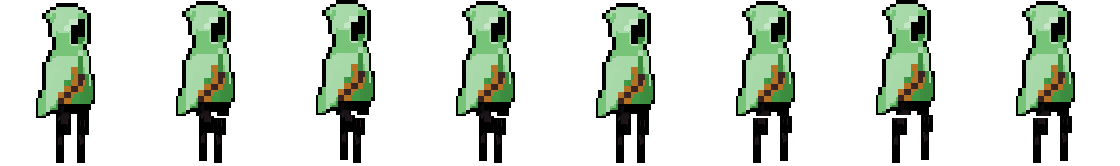
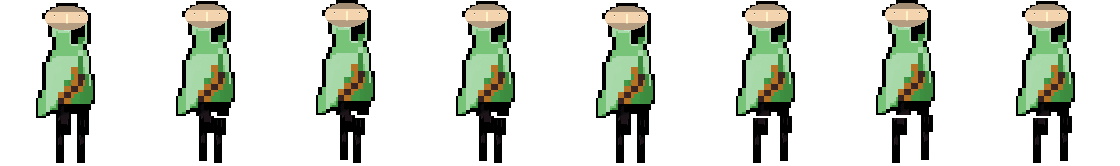
CAS-199: fix headless hero — add a face mask under the cowl (interim, warm build)
The canonical hooded hero read as a HEADLESS cowl: the hood part is a crown
over an empty black face-cavity, inherited by all 5 classes via runtime tinting.
Add a value-normalised `face` part mask (pale skin + glowing eyes), composited
on top of the hood with a FIXED skin tone (class-independent → same person,
different role); lift the cowl interior to a coloured dark shadow so it reads as
depth not a hole. Wired into BOTH the runtime bake (render/customize.js) and the
static class-select strips (tools/cas167-build-classes.mjs); helmet keeps its
visor. Verified in-game (class-select + in-world, all 5 classes, 0 errors) via
tools/cas199-verify.mjs. Idle/walk animation preserved; class aura FX shipped in
render.js (CAS-204 commit). Interim fix for the live warm build — the permanent
on-style fix is the FOUNTAINS/PixelLab character rollout.

diff --git a/render/customize.js b/render/customize.js
@@ -31,8 +31,9 @@ const CELL_W = 140, CELL_H = 166, ANCHOR_X = 65, FOOT = 163, FIGURE_H = 160;
 const FIG_W = 58, FIG_H = 158;                 // native part-mask figure dims
 const IDLE_FC = 6, WALK_FC = 8;
 const MID = 165;                               // tint mid-reference (value-normalised masks)
+const SKIN = [226, 196, 162];                  // CAS-199 fixed face tone (class-independent → "same person, different role")
 const PART_DIR = "./assets/erw/hero/parts/";
-const PART_NAMES = ["hood", "cloak", "sash", "legs", "helmet", "nocape", "longcape"];
+const PART_NAMES = ["hood", "cloak", "sash", "legs", "helmet", "nocape", "longcape", "face"];
 
 const _doc = (typeof document !== "undefined") ? document : null;
 const _masks = {};            // name -> HTMLImageElement
@@ -120,6 +121,9 @@ export function bakeHero(cls, palette, variation){
   bx.drawImage(toCell(tint(_masks[m.torso], palette.cloak)), 0, 0);
   bx.drawImage(toCell(tint(_masks.sash, palette.sash)), 0, 0);
   if(m.head) bx.drawImage(toCell(tint(_masks[m.head], palette.hood)), 0, 0);
+  // CAS-199: the face under the cowl — fixed skin tone, never the class palette, so
+  // the hero stops reading as a headless cloak. The helmet has its own visor → no face.
+  if(m.head !== "helmet" && _masks.face) bx.drawImage(toCell(tint(_masks.face, SKIN)), 0, 0);
   const back = m.back ? toCell(tint(_masks[m.back], palette.cloak)) : null;  // drawn BEHIND legs
   const { legL, legR } = splitLegs(toCell(tint(_masks.legs, palette.legs)));
 
